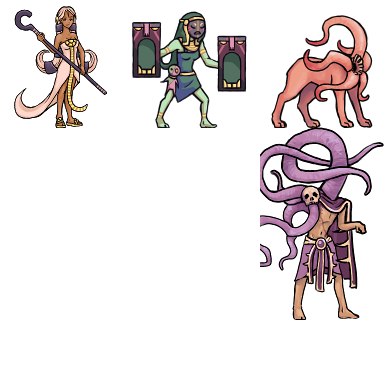
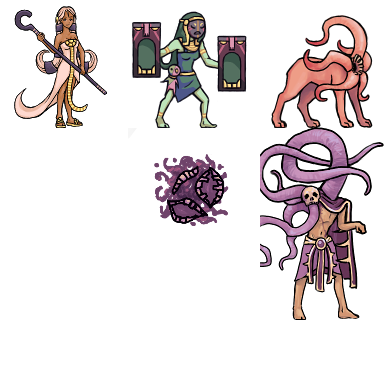
new (pink) enemy added

Changed region(s): [[0.4062, 0.4062, 0.5938, 0.5938]]

diff --git a/src/gameworld.py b/src/gameworld.py
@@ -214,6 +214,7 @@ class GameWorld(object):
     def create_game_object(self, x, y, tile_properties):
         if "type" in tile_properties:
             if tile_properties["type"] == "enemy":
+                tags = list()
                 position = (x*64+32, y*64+32)
                 if "max_hp" in tile_properties:
                     hp = int(tile_properties["max_hp"])
@@ -221,6 +222,9 @@ class GameWorld(object):
                     max_x_vel = int(tile_properties["max_x_vel"])
                 if "max_y_vel" in tile_properties:
                     max_y_vel = int(tile_properties["max_y_vel"])
+                if "no_gravity" in tile_properties:
+                    if int(tile_properties["no_gravity"]) == 1:
+                        tags.append("no_gravity")
                 #Attack related:
                 #Create enemy attacks
                 attack_list = list()
@@ -257,6 +261,14 @@ class GameWorld(object):
                     proj_anim_time_list = [50, 13]
                     proj_width = 32
                     proj_height = 32
+                elif ai_ID == "pink_2":
+                    proj_image = "pink_proj.png"
+                    proj_anim_list = [2, 2]
+                    proj_anim_time_list = [50, 13]
+                    proj_width = 32
+                    proj_height = 32
+                    effect_ID = self.create_attack_effect('enemy_pink_2_effect.png',
+                                                      200, 200, 6, 60)
                 elif ai_ID == "pink_boss":
                     proj_image = "pink_proj.png"
                     proj_anim_list = [2, 2]
@@ -346,7 +358,7 @@ class GameWorld(object):
                     attack_list.append(particle_emitter3)
                 
                 self.create_enemy(position, hp, max_x_vel, max_y_vel,
-                                  attack_list, ai_ID)
+                                  attack_list, ai_ID, tags)
             elif tile_properties["type"] == "heal_potion":
                 #Add fields
                 recovery = int(tile_properties["recovery"])
@@ -480,7 +492,7 @@ class GameWorld(object):
         self.players[self.player].orb_ID = orb_ID
         self.add_component_to_entity(self.player, attack_list)
 
-    def create_enemy(self, position, max_hp, max_x_vel, max_y_vel, attack_list, ai_ID):
+    def create_enemy(self, position, max_hp, max_x_vel, max_y_vel, attack_list, ai_ID, tags):
         """Create an enemy.
         
         :param position: position where enemy is created
@@ -488,7 +500,7 @@ class GameWorld(object):
         """
         if ai_ID == "green_1":
             #Enemy's hitbox, it is 50 pixel width and 96 pixel height
-            coll = components.Collider(position[0], position[1], 50, 96)
+            coll = components.Collider(position[0], position[1], 50, 96, tags)
             vel = components.Velocity(0, 0, max_x_vel, max_y_vel)
             #Create enemy's animations
             temp = pygame.image.load(os.path.join('data', 'enemy_green_1.png')).convert_alpha()
@@ -507,7 +519,7 @@ class GameWorld(object):
 
         elif ai_ID == "pink_1":
             #Enemy's hitbox, it is 50 pixel width and 96 pixel height
-            coll = components.Collider(position[0], position[1], 50, 96)
+            coll = components.Collider(position[0], position[1], 50, 96, tags)
             vel = components.Velocity(0, 0, max_x_vel, max_y_vel)
             #Create enemy's animations
             temp = pygame.image.load(os.path.join('data', 'enemy_pink_1.png')).convert_alpha()
@@ -523,9 +535,27 @@ class GameWorld(object):
             enemy_AI = ai.AI_2(self, enemy_ID, self.event_manager)
             self.add_component_to_entity(enemy_ID, enemy_AI)
             self.add_component_to_entity(enemy_ID, attack_list)
+        elif ai_ID == "pink_2":
+            #Enemy's hitbox, it is 50 pixel width and 96 pixel height
+            coll = components.Collider(position[0], position[1], 70, 70, tags)
+            vel = components.Velocity(0, 0, max_x_vel, max_y_vel)
+            #Create enemy's animations
+            temp = pygame.image.load(os.path.join('data', 'enemy_pink_2.png')).convert_alpha()
+            anim_list = [5, 6, 5, 2, 2, 2]
+            anim_time_list = [60, 60, 44, 10, 10, 10]
+            anim = components.Appearance(temp, 75, 75, anim_list, anim_time_list)
+            anim.rect.center = coll.center
+            direction = components.Direction([1, 0])
+            hp = components.Health(max_hp)
+            c = (coll, direction, vel, anim, hp)
+            enemy_ID = self.create_entity(c)
+            
+            enemy_AI = ai.AI_3(self, enemy_ID, self.event_manager)
+            self.add_component_to_entity(enemy_ID, enemy_AI)
+            self.add_component_to_entity(enemy_ID, attack_list)
         elif ai_ID == "pink_boss":
             #Enemy's hitbox, it is 50 pixel width and 96 pixel height
-            coll = components.Collider(position[0], position[1], 86, 170)
+            coll = components.Collider(position[0], position[1], 86, 170, tags)
             vel = components.Velocity(0, 0, max_x_vel, max_y_vel)
             #Create enemy's animations
             temp = pygame.image.load(os.path.join('data', 'enemy_pink_boss.png')).convert_alpha()

diff --git a/src/ai.py b/src/ai.py
@@ -410,6 +410,69 @@ class AI_2(AI):
                 self.counter = 30
                 self.current_action = self.idle
 
+class AI_3(AI):
+    """Handles simple AI.
+    
+    Enemy is searching for the player and attacks, if player is on the sight.
+
+    :Attributes:
+        - *event_manager* (:class:`events.EventManager`): event manager
+        - *world* (:class:`gameWorld.GameWorld`): game world contains entities
+        - *current_action* (function): current update function for AI
+        - *entity_ID* (int): this AI belongs to this entity
+    """
+
+    def __init__(self, world, entity_ID, event_manager):
+        """
+        :param world: game world contains entities
+        :type world: gameWorld.GameWorld
+        """
+        AI.__init__(self, world, entity_ID, event_manager)
+        self.aggresion_range = 300
+        #Set idle function for the AI
+        self.current_action = self.idle
+
+    def idle(self, event):
+        """Idle, lasts ... frames long.
+
+        :param event: occured event
+        :type event: events.Event
+        """
+        if isinstance(event, events.TickEvent):
+            #Do not attack
+            self.stop_movement()
+            #Check if enemy sees the player and if player is in range
+            players_position = self.world.collider[self.world.player].center
+            if self.sees_player(players_position) and self.point_in_radius(self.aggresion_range, players_position):
+                self.current_action = self.hunt
+
+    def hunt(self, event):
+        """Attacks the player.
+
+        :param event: occured event
+        :type event: events.Event
+        """
+        if isinstance(event, events.TickEvent):
+            #Stop movement first
+            self.stop_movement()
+            #Get needed positions
+            players_position = self.world.collider[self.world.player].center
+            direction = (1, 0)
+            self.world.direction[self.entity_ID] = direction
+            # Flip appearance according to attack direction
+            if direction[0] < 0 and not self.world.appearance[self.entity_ID].flip:
+                self.world.appearance[self.entity_ID].flip = True
+            elif direction[0] > 0 and self.world.appearance[self.entity_ID].flip:
+                self.world.appearance[self.entity_ID].flip = False
+            #Do attack
+            self.attack(0, None, direction)
+            #Check if state should be changed
+            #Enemy doesn't sees player or player is not in range
+            if not self.sees_player(self.world.collider[self.world.player].center) or not self.point_in_radius(self.aggresion_range, players_position):
+                #Set duration of idle state
+                self.counter = 30
+                self.current_action = self.idle
+
 class AI_Boss_2(AI):
     """Handles simple AI.
     

diff --git a/src/collisionsystem.py b/src/collisionsystem.py
@@ -90,7 +90,8 @@ class CollisionSystem(object):
 
     def calculate_collision_y(self, collider_ID):
         #Consider gravity
-        self.world.velocity[collider_ID].y += self.gravity[1]
+        if not "no_gravity" in self.world.collider[collider_ID].tags:
+            self.world.velocity[collider_ID].y += self.gravity[1]
         #Move collider in y direction.
         self.world.collider[collider_ID].y += self.world.velocity[collider_ID].y
         #Filter overlapping hit boxes with collider
@@ -107,14 +108,15 @@ class CollisionSystem(object):
                 ev = events.EntityGrounded(collider_ID)
             elif self.world.velocity[collider_ID].y < 0:
                 self.world.collider[collider_ID].top = element.bottom
-                ev = events.EntityJump(collider_ID)
+                if not "no_gravity" in self.world.collider[collider_ID].tags:
+                    ev = events.EntityJump(collider_ID)
             #Reset velocity in y direction, so gravity will not be added
             #every new frame
             self.world.velocity[collider_ID].y = 0
             #Post Event
             ev_collision = events.CollisionOccured(collider_ID, element)
             self.event_manager.post(ev_collision)
-        if not hit_items:
+        if not hit_items and not "no_gravity" in self.world.collider[collider_ID].tags:
             ev = events.EntityJump(collider_ID)
         if ev: 
             self.event_manager.post(ev)
